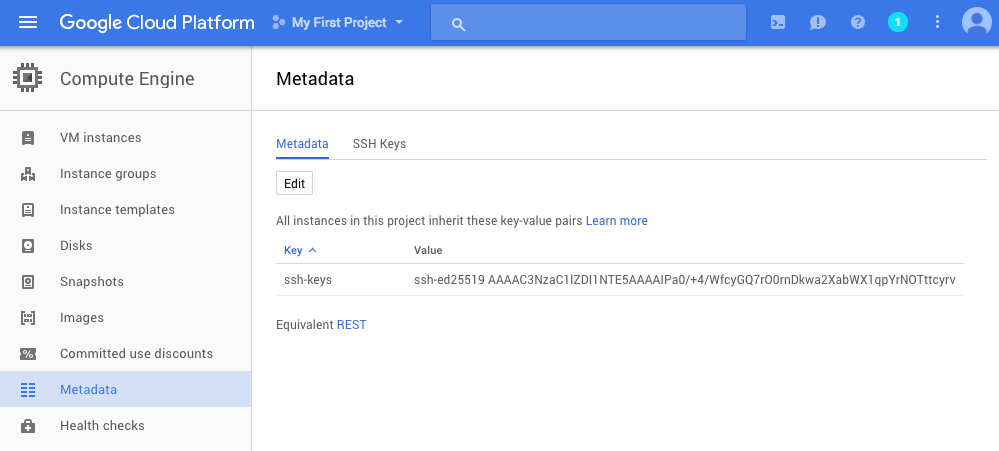
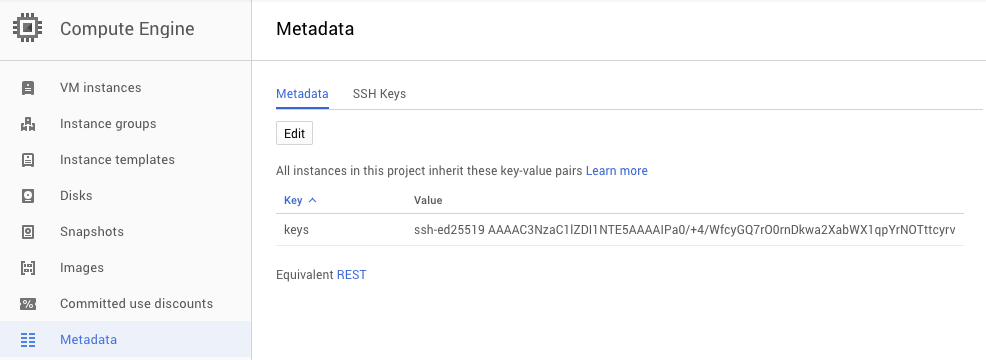
rebuilding site Fri Dec  1 09:09:42 CET 2017

diff --git a/post/google/index.html b/post/google/index.html
@@ -7,7 +7,7 @@
 		<meta name="author" content="fabrik">
 		<meta name="description" content="FreeBSD jails factory">
 		<meta name="keywords" content="freebsd, jails, containers, zfs">
-		<meta name="generator" content="Hugo 0.25" />
+		<meta name="generator" content="Hugo 0.31.1" />
 		<title>Uplod image to Google GCP &middot; fabrik</title>
         <link rel="apple-touch-icon" sizes="57x57" href="https://fabrik.red/images/apple-icon-57x57.png">
         <link rel="apple-touch-icon" sizes="60x60" href="https://fabrik.red/images/apple-icon-60x60.png">
@@ -90,7 +90,7 @@ freebsd  x-fabric-167819                      READY
 
 <p><img src="/img/gcp-metadata.png" alt="gcp metadata" /></p>
 
-<p>Notice the key name is: <code>ssh-keys</code></p>
+<p>Notice the key name is: <strong>keys</strong></p>
 
 <p>Finaly create the instance:</p>
 
@@ -181,8 +181,8 @@ lo1: flags=8049&lt;UP,LOOPBACK,RUNNING,MULTICAST&gt; metric 0 mtu 1460
         (d.head || d.body).appendChild(s);
     })();
 </script>
-<noscript>Please enable JavaScript to view the <a href="http://disqus.com/?ref_noscript">comments powered by Disqus.</a></noscript>
-<a href="http://disqus.com" class="dsq-brlink">comments powered by <span class="logo-disqus">Disqus</span></a>
+<noscript>Please enable JavaScript to view the <a href="https://disqus.com/?ref_noscript">comments powered by Disqus.</a></noscript>
+<a href="https://disqus.com" class="dsq-brlink">comments powered by <span class="logo-disqus">Disqus</span></a>
 
             <ul id="post-list" class="archive readmore">
     <h3>Read more</h3>

diff --git a/post/default-user/index.html b/post/default-user/index.html
@@ -7,7 +7,7 @@
 		<meta name="author" content="fabrik">
 		<meta name="description" content="FreeBSD jails factory">
 		<meta name="keywords" content="freebsd, jails, containers, zfs">
-		<meta name="generator" content="Hugo 0.25" />
+		<meta name="generator" content="Hugo 0.31.1" />
 		<title>Default username, password &middot; fabrik</title>
         <link rel="apple-touch-icon" sizes="57x57" href="https://fabrik.red/images/apple-icon-57x57.png">
         <link rel="apple-touch-icon" sizes="60x60" href="https://fabrik.red/images/apple-icon-60x60.png">
@@ -141,8 +141,8 @@ firstboot, and add it to the <code>~/.ssh/authorized_keys</code> file.</p>
         (d.head || d.body).appendChild(s);
     })();
 </script>
-<noscript>Please enable JavaScript to view the <a href="http://disqus.com/?ref_noscript">comments powered by Disqus.</a></noscript>
-<a href="http://disqus.com" class="dsq-brlink">comments powered by <span class="logo-disqus">Disqus</span></a>
+<noscript>Please enable JavaScript to view the <a href="https://disqus.com/?ref_noscript">comments powered by Disqus.</a></noscript>
+<a href="https://disqus.com" class="dsq-brlink">comments powered by <span class="logo-disqus">Disqus</span></a>
 
             <ul id="post-list" class="archive readmore">
     <h3>Read more</h3>

diff --git a/post/creating-the-image/index.html b/post/creating-the-image/index.html
@@ -7,7 +7,7 @@
 		<meta name="author" content="fabrik">
 		<meta name="description" content="FreeBSD jails factory">
 		<meta name="keywords" content="freebsd, jails, containers, zfs">
-		<meta name="generator" content="Hugo 0.25" />
+		<meta name="generator" content="Hugo 0.31.1" />
 		<title>Creating the image (disk.raw) &middot; fabrik</title>
         <link rel="apple-touch-icon" sizes="57x57" href="https://fabrik.red/images/apple-icon-57x57.png">
         <link rel="apple-touch-icon" sizes="60x60" href="https://fabrik.red/images/apple-icon-60x60.png">
@@ -179,8 +179,8 @@ kernel and custom world for the base jails, once done it will create a
         (d.head || d.body).appendChild(s);
     })();
 </script>
-<noscript>Please enable JavaScript to view the <a href="http://disqus.com/?ref_noscript">comments powered by Disqus.</a></noscript>
-<a href="http://disqus.com" class="dsq-brlink">comments powered by <span class="logo-disqus">Disqus</span></a>
+<noscript>Please enable JavaScript to view the <a href="https://disqus.com/?ref_noscript">comments powered by Disqus.</a></noscript>
+<a href="https://disqus.com" class="dsq-brlink">comments powered by <span class="logo-disqus">Disqus</span></a>
 
             <ul id="post-list" class="archive readmore">
     <h3>Read more</h3>

diff --git a/post/test/index.html b/post/test/index.html
@@ -7,7 +7,7 @@
 		<meta name="author" content="fabrik">
 		<meta name="description" content="FreeBSD jails factory">
 		<meta name="keywords" content="freebsd, jails, containers, zfs">
-		<meta name="generator" content="Hugo 0.25" />
+		<meta name="generator" content="Hugo 0.31.1" />
 		<title>Install the image &middot; fabrik</title>
         <link rel="apple-touch-icon" sizes="57x57" href="https://fabrik.red/images/apple-icon-57x57.png">
         <link rel="apple-touch-icon" sizes="60x60" href="https://fabrik.red/images/apple-icon-60x60.png">
@@ -192,8 +192,8 @@ should be expanded, see <a href="/post/zfs-resize">resize ZFS</a> for more detai
         (d.head || d.body).appendChild(s);
     })();
 </script>
-<noscript>Please enable JavaScript to view the <a href="http://disqus.com/?ref_noscript">comments powered by Disqus.</a></noscript>
-<a href="http://disqus.com" class="dsq-brlink">comments powered by <span class="logo-disqus">Disqus</span></a>
+<noscript>Please enable JavaScript to view the <a href="https://disqus.com/?ref_noscript">comments powered by Disqus.</a></noscript>
+<a href="https://disqus.com" class="dsq-brlink">comments powered by <span class="logo-disqus">Disqus</span></a>
 
             <ul id="post-list" class="archive readmore">
     <h3>Read more</h3>

diff --git a/post/aws-ami/index.html b/post/aws-ami/index.html
@@ -7,7 +7,7 @@
 		<meta name="author" content="fabrik">
 		<meta name="description" content="FreeBSD jails factory">
 		<meta name="keywords" content="freebsd, jails, containers, zfs">
-		<meta name="generator" content="Hugo 0.25" />
+		<meta name="generator" content="Hugo 0.31.1" />
 		<title>Upload AMI to AWS &middot; fabrik</title>
         <link rel="apple-touch-icon" sizes="57x57" href="https://fabrik.red/images/apple-icon-57x57.png">
         <link rel="apple-touch-icon" sizes="60x60" href="https://fabrik.red/images/apple-icon-60x60.png">
@@ -145,8 +145,8 @@ once, check that the disk has been resized and in case not re run this:</p>
         (d.head || d.body).appendChild(s);
     })();
 </script>
-<noscript>Please enable JavaScript to view the <a href="http://disqus.com/?ref_noscript">comments powered by Disqus.</a></noscript>
-<a href="http://disqus.com" class="dsq-brlink">comments powered by <span class="logo-disqus">Disqus</span></a>
+<noscript>Please enable JavaScript to view the <a href="https://disqus.com/?ref_noscript">comments powered by Disqus.</a></noscript>
+<a href="https://disqus.com" class="dsq-brlink">comments powered by <span class="logo-disqus">Disqus</span></a>
 
             <ul id="post-list" class="archive readmore">
     <h3>Read more</h3>

diff --git a/post/zfs-resize/index.html b/post/zfs-resize/index.html
@@ -7,7 +7,7 @@
 		<meta name="author" content="fabrik">
 		<meta name="description" content="FreeBSD jails factory">
 		<meta name="keywords" content="freebsd, jails, containers, zfs">
-		<meta name="generator" content="Hugo 0.25" />
+		<meta name="generator" content="Hugo 0.31.1" />
 		<title>resize ZFS &middot; fabrik</title>
         <link rel="apple-touch-icon" sizes="57x57" href="https://fabrik.red/images/apple-icon-57x57.png">
         <link rel="apple-touch-icon" sizes="60x60" href="https://fabrik.red/images/apple-icon-60x60.png">
@@ -226,8 +226,8 @@ zroot  7.98G   258M  7.73G         -     2%     3%  1.00x  ONLINE  -
         (d.head || d.body).appendChild(s);
     })();
 </script>
-<noscript>Please enable JavaScript to view the <a href="http://disqus.com/?ref_noscript">comments powered by Disqus.</a></noscript>
-<a href="http://disqus.com" class="dsq-brlink">comments powered by <span class="logo-disqus">Disqus</span></a>
+<noscript>Please enable JavaScript to view the <a href="https://disqus.com/?ref_noscript">comments powered by Disqus.</a></noscript>
+<a href="https://disqus.com" class="dsq-brlink">comments powered by <span class="logo-disqus">Disqus</span></a>
 
             <ul id="post-list" class="archive readmore">
     <h3>Read more</h3>

diff --git a/about/index.html b/about/index.html
@@ -7,7 +7,7 @@
 		<meta name="author" content="fabrik">
 		<meta name="description" content="FreeBSD jails factory">
 		<meta name="keywords" content="freebsd, jails, containers, zfs">
-		<meta name="generator" content="Hugo 0.25" />
+		<meta name="generator" content="Hugo 0.31.1" />
 		<title>What is Fabrik &middot; fabrik</title>
         <link rel="apple-touch-icon" sizes="57x57" href="https://fabrik.red/images/apple-icon-57x57.png">
         <link rel="apple-touch-icon" sizes="60x60" href="https://fabrik.red/images/apple-icon-60x60.png">
@@ -131,8 +131,8 @@ from the main host type:</p>
         (d.head || d.body).appendChild(s);
     })();
 </script>
-<noscript>Please enable JavaScript to view the <a href="http://disqus.com/?ref_noscript">comments powered by Disqus.</a></noscript>
-<a href="http://disqus.com" class="dsq-brlink">comments powered by <span class="logo-disqus">Disqus</span></a>
+<noscript>Please enable JavaScript to view the <a href="https://disqus.com/?ref_noscript">comments powered by Disqus.</a></noscript>
+<a href="https://disqus.com" class="dsq-brlink">comments powered by <span class="logo-disqus">Disqus</span></a>
 
             <ul id="post-list" class="archive readmore">
     <h3>Read more</h3>

diff --git a/post/after/index.html b/post/after/index.html
@@ -7,7 +7,7 @@
 		<meta name="author" content="fabrik">
 		<meta name="description" content="FreeBSD jails factory">
 		<meta name="keywords" content="freebsd, jails, containers, zfs">
-		<meta name="generator" content="Hugo 0.25" />
+		<meta name="generator" content="Hugo 0.31.1" />
 		<title>After booting &middot; fabrik</title>
         <link rel="apple-touch-icon" sizes="57x57" href="https://fabrik.red/images/apple-icon-57x57.png">
         <link rel="apple-touch-icon" sizes="60x60" href="https://fabrik.red/images/apple-icon-60x60.png">
@@ -209,8 +209,8 @@ pass all
         (d.head || d.body).appendChild(s);
     })();
 </script>
-<noscript>Please enable JavaScript to view the <a href="http://disqus.com/?ref_noscript">comments powered by Disqus.</a></noscript>
-<a href="http://disqus.com" class="dsq-brlink">comments powered by <span class="logo-disqus">Disqus</span></a>
+<noscript>Please enable JavaScript to view the <a href="https://disqus.com/?ref_noscript">comments powered by Disqus.</a></noscript>
+<a href="https://disqus.com" class="dsq-brlink">comments powered by <span class="logo-disqus">Disqus</span></a>
 
             <ul id="post-list" class="archive readmore">
     <h3>Read more</h3>

diff --git a/404.html b/404.html
@@ -7,7 +7,7 @@
 		<meta name="author" content="fabrik">
 		<meta name="description" content="FreeBSD jails factory">
 		<meta name="keywords" content="freebsd, jails, containers, zfs">
-		<meta name="generator" content="Hugo 0.25" />
+		<meta name="generator" content="Hugo 0.31.1" />
 		<title>404 Page not found &middot; fabrik</title>
         <link rel="apple-touch-icon" sizes="57x57" href="https://fabrik.red/images/apple-icon-57x57.png">
         <link rel="apple-touch-icon" sizes="60x60" href="https://fabrik.red/images/apple-icon-60x60.png">

diff --git a/tags/hostname/index.html b/tags/hostname/index.html
@@ -7,7 +7,7 @@
 		<meta name="author" content="fabrik">
 		<meta name="description" content="FreeBSD jails factory">
 		<meta name="keywords" content="freebsd, jails, containers, zfs">
-		<meta name="generator" content="Hugo 0.25" />
+		<meta name="generator" content="Hugo 0.31.1" />
 		<title>Hostname &middot; fabrik</title>
         <link rel="apple-touch-icon" sizes="57x57" href="https://fabrik.red/images/apple-icon-57x57.png">
         <link rel="apple-touch-icon" sizes="60x60" href="https://fabrik.red/images/apple-icon-60x60.png">

diff --git a/tags/freebsd/index.html b/tags/freebsd/index.html
@@ -7,7 +7,7 @@
 		<meta name="author" content="fabrik">
 		<meta name="description" content="FreeBSD jails factory">
 		<meta name="keywords" content="freebsd, jails, containers, zfs">
-		<meta name="generator" content="Hugo 0.25" />
+		<meta name="generator" content="Hugo 0.31.1" />
 		<title>Freebsd &middot; fabrik</title>
         <link rel="apple-touch-icon" sizes="57x57" href="https://fabrik.red/images/apple-icon-57x57.png">
         <link rel="apple-touch-icon" sizes="60x60" href="https://fabrik.red/images/apple-icon-60x60.png">

diff --git a/tags/devops/index.html b/tags/devops/index.html
@@ -7,7 +7,7 @@
 		<meta name="author" content="fabrik">
 		<meta name="description" content="FreeBSD jails factory">
 		<meta name="keywords" content="freebsd, jails, containers, zfs">
-		<meta name="generator" content="Hugo 0.25" />
+		<meta name="generator" content="Hugo 0.31.1" />
 		<title>Devops &middot; fabrik</title>
         <link rel="apple-touch-icon" sizes="57x57" href="https://fabrik.red/images/apple-icon-57x57.png">
         <link rel="apple-touch-icon" sizes="60x60" href="https://fabrik.red/images/apple-icon-60x60.png">
